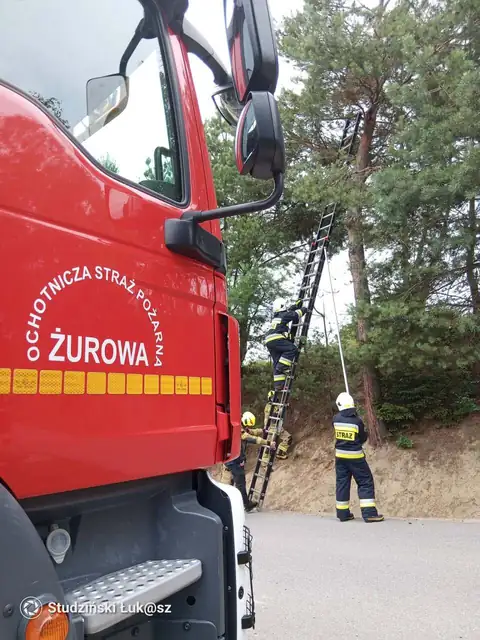
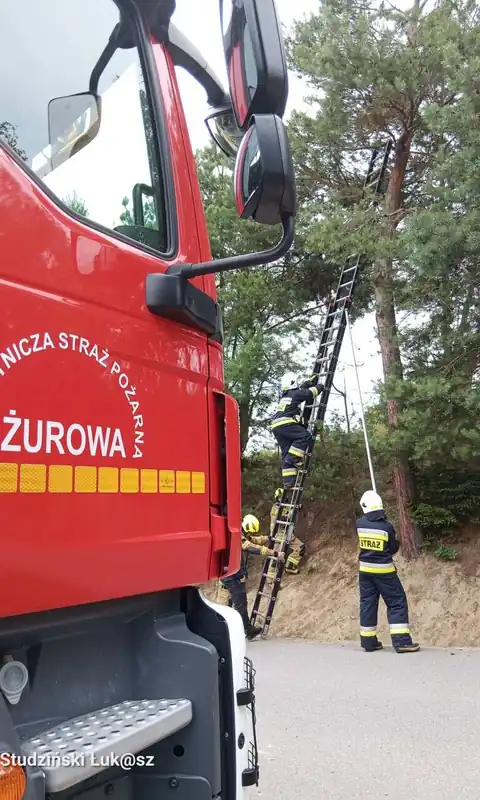
Lzejsze zdjecie glowne na telefon, kontrast, dostepnosc

diff --git a/index.html b/index.html
@@ -8,7 +8,7 @@
 <meta name="description" content="Ochotnicza Straż Pożarna w Żurowej (gmina Szerzyny) - jednostka KSRG od 2001 r., działa od 1912 r. Aktualności, wyjazdy, wozy, MDP, 1,5% podatku i kontakt.">
 <meta name="theme-color" content="#16120F">
 <link rel="icon" href="img/favicon.svg" type="image/svg+xml">
-<link rel="preload" as="image" href="img/hero-m-720.webp" imagesrcset="img/hero-m-480.webp 480w, img/hero-m-720.webp 720w, img/hero-m-960.webp 960w" imagesizes="100vw" media="(max-width:760px)" fetchpriority="high">
+<link rel="preload" as="image" href="img/hero-m-640.webp" imagesrcset="img/hero-m-480.webp 480w, img/hero-m-640.webp 640w" imagesizes="100vw" media="(max-width:760px)" fetchpriority="high">
 <link rel="preload" as="image" href="img/hero-d-1280.webp" imagesrcset="img/hero-d-960.webp 960w, img/hero-d-1280.webp 1280w" imagesizes="100vw" media="(min-width:761px)" fetchpriority="high">
 <link rel="preload" as="font" type="font/woff2" href="fonts/barlow-condensed-latin-700.woff2" crossorigin>
 <link rel="preload" as="font" type="font/woff2" href="fonts/barlow-latin-400.woff2" crossorigin>
@@ -154,7 +154,7 @@ p{margin:0}
 .pit h2{color:#fff;max-width:18ch}
 .pit .lead{color:#FFE3E0;margin-top:20px}
 .krs{margin-top:clamp(28px,3vw,44px);display:flex;flex-wrap:wrap;gap:20px 40px;align-items:flex-end}
-.krs div small{display:block;font-size:15px;color:#FFD0CB}
+.krs div small{display:block;font-size:15px;color:#fff}
 .krs div b{display:block;font:700 clamp(40px,2.4vw + 22px,76px)/1 BC,"BC fb",sans-serif;letter-spacing:.02em;margin-top:6px}
 .cel{margin-top:22px;background:#fff;color:var(--ink);padding:18px 22px;max-width:640px;border-left:6px solid var(--char)}
 .cel small{display:block;font-size:15px;color:var(--mut)}
@@ -273,7 +273,7 @@ form{grid-template-columns:1fr}
 
 <header class="top" id="top">
 <div class="wrap">
-<a class="brand" href="#start" aria-label="OSP Żurowa - strona główna"><img src="img/logo.webp" width="146" height="136" alt="Logo Jednostki Operacyjno-Technicznej OSP Żurowa"><span><b>OSP Żurowa</b><small>Ochotnicza Straż Pożarna</small></span></a>
+<a class="brand" href="#start"><img src="img/logo.webp" width="146" height="136" alt=""><span><b>OSP Żurowa</b><small>Ochotnicza Straż Pożarna</small></span></a>
 <nav class="menu" aria-label="Menu główne">
 <a href="#aktualnosci">Aktualności</a>
 <a href="#wyjazdy">Wyjazdy</a>
@@ -291,7 +291,7 @@ form{grid-template-columns:1fr}
 <main id="start">
 <section class="hero" aria-label="OSP Żurowa">
 <picture>
-<source media="(max-width:760px)" srcset="img/hero-m-480.webp 480w, img/hero-m-720.webp 720w, img/hero-m-960.webp 960w" sizes="100vw">
+<source media="(max-width:760px)" srcset="img/hero-m-480.webp 480w, img/hero-m-640.webp 640w" sizes="100vw">
 <img src="img/hero-d-1280.webp" srcset="img/hero-d-960.webp 960w, img/hero-d-1280.webp 1280w" sizes="100vw" width="1280" height="960" alt="Strażacy OSP Żurowa w ubraniach specjalnych przed wozem MAN 369[k]90" fetchpriority="high" decoding="async">
 </picture>
 <div class="wrap"><div class="hero-in">
@@ -325,7 +325,7 @@ form{grid-template-columns:1fr}
 <li><div><p class="when">08.10.2026 <span>Żurowa</span></p><h3><svg class="kx" aria-hidden="true"><use href="#kx"/></svg>Powalone drzewo</h3><p>Wiatr powalił drzewo na drodze gminnej, drugie nadłamane zwisało nad jezdnią - zdjęte wyciągarką i pilarką.</p></div><button class="ph" type="button" data-full="img/a-drzewo-960.webp"><img src="img/a-drzewo-360.webp" width="360" height="479" alt="Powalone drzewo na drodze gminnej w Żurowej" loading="lazy" decoding="async"></button></li>
 <li><div><p class="when">19.09.2026 <span>Swoszowa</span></p><h3><svg class="kx" aria-hidden="true"><use href="#kx"/></svg>Wypadek motocyklisty</h3><p>Motocyklista uderzył w drzewo. Kwalifikowana pierwsza pomoc, ewakuacja z terenu leśnego i przekazanie ZRM.</p></div><button class="ph" type="button" data-full="img/a-moto-960.webp"><img src="img/a-moto-360.webp" width="360" height="480" alt="Wóz OSP Żurowa na sygnałach podczas akcji nocą" loading="lazy" decoding="async"></button></li>
 <li><div><p class="when">23.07.2026 <span>Żurowa</span></p><h3><svg class="kx" aria-hidden="true"><use href="#kx"/></svg>Załączona czujka czadu</h3><p>Nocny wyjazd do domu, w którym zadziałała czujka tlenku węgla.</p></div><button class="ph" type="button" data-full="img/a-czad-960.webp"><img src="img/a-czad-360.webp" width="360" height="480" alt="Strażak OSP Żurowa przy otwartej skrytce wozu" loading="lazy" decoding="async"></button></li>
-<li><div><p class="when">07.07.2026 <span>Żurowa</span></p><h3><svg class="kx" aria-hidden="true"><use href="#kx"/></svg>Kot na drzewie</h3><p>Kot od dwóch dni nie potrafił zejść z drzewa - ściągnięty z drabiny.</p></div><button class="ph" type="button" data-full="img/hero-m-720.webp"><img src="img/hero-m-480.webp" width="480" height="640" alt="Strażacy na drabinie przy drzewie, obok wóz OSP Żurowa" loading="lazy" decoding="async"></button></li>
+<li><div><p class="when">07.07.2026 <span>Żurowa</span></p><h3><svg class="kx" aria-hidden="true"><use href="#kx"/></svg>Kot na drzewie</h3><p>Kot od dwóch dni nie potrafił zejść z drzewa - ściągnięty z drabiny.</p></div><button class="ph" type="button" data-full="img/hero-m-640.webp"><img src="img/hero-m-480.webp" width="480" height="800" alt="Strażacy na drabinie przy drzewie, obok wóz OSP Żurowa" loading="lazy" decoding="async"></button></li>
 <li><div><p class="when">30.04.2026 <span>Olszyny</span></p><h3><svg class="kx" aria-hidden="true"><use href="#kx"/></svg>Pożar samochodu w garażu</h3><p>Wyjazd w sile dwóch zastępów do pożaru samochodu osobowego.</p></div></li>
 <li><div><p class="when">25.03.2026 <span>Swoszowa</span></p><h3><svg class="kx" aria-hidden="true"><use href="#kx"/></svg>Pożar dachu</h3><p>Pożar dachu budynku gospodarczego, dwa zastępy.</p></div><button class="ph" type="button" data-full="img/a-dach-960.webp"><img src="img/a-dach-360.webp" width="360" height="270" alt="Wozy strażackie na polnej drodze podczas akcji w Swoszowej" loading="lazy" decoding="async"></button></li>
 <li><div><p class="when">23.03.2026 <span>Czermna</span></p><h3><svg class="kx" aria-hidden="true"><use href="#kx"/></svg>Wypadek w lesie</h3><p>Zadysponowani razem z zestawem poduszek pneumatycznych do zdarzenia przy pracach leśnych.</p></div></li>
